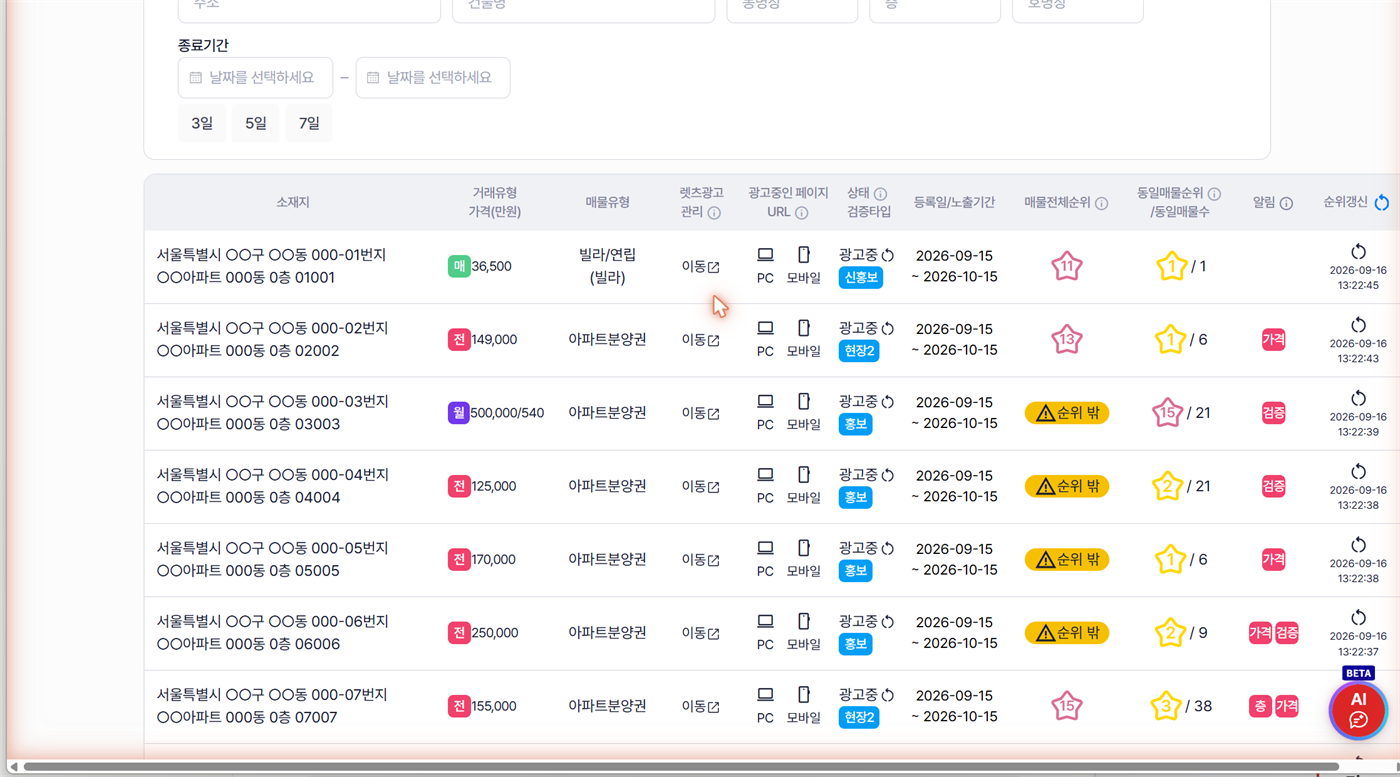
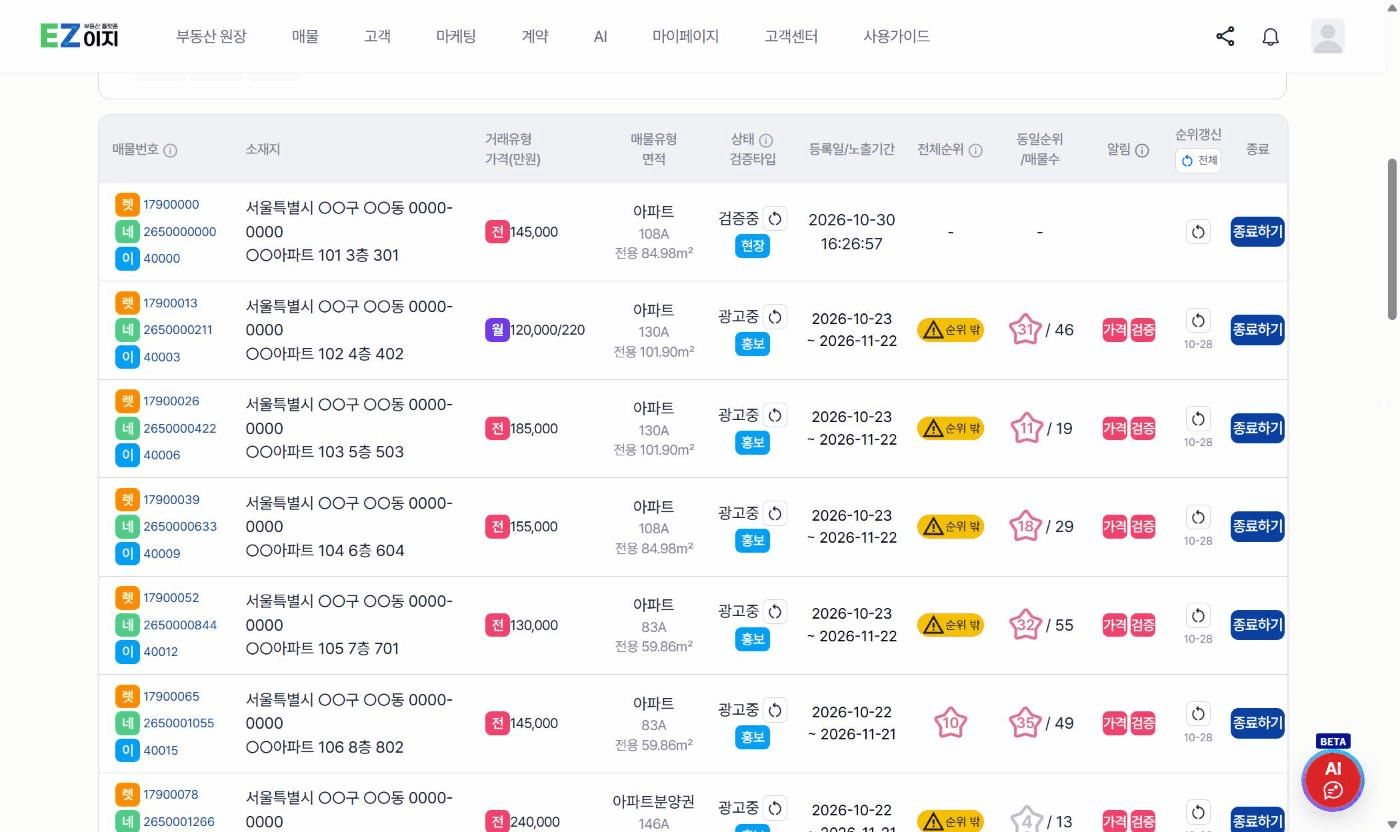
광고 관리 두 화면의 달라진 목록을 반영했습니다
광고 메뉴가 보이는 계정으로 직접 확인했습니다.

- N 광고 관리: 매물번호 세 가지(렛츠·네이버·이지)가 한 칸에 나오고
  그 번호로 검색할 수 있게 된 것, 열이 합쳐져 가로 스크롤이 준 것
- 이지 광고 관리: 매물번호 두 가지(허브·이지)와 면적 표시
- 두 화면 모두 스크린샷을 새로 찍었습니다. 소재지·동호수·매물번호를
  전부 가렸고, 가격은 예시값으로 바꿔 넣었습니다

diff --git a/docs/howto/naver-ad.md b/docs/howto/naver-ad.md
@@ -402,13 +402,31 @@
 `매물 → N 광고 관리`를 열면 **광고 중인 매물이 표로 한눈에** 나옵니다.
 매물을 하나씩 눌러볼 필요가 없습니다.
 
-![N 광고 관리 순위표](/images/naver-ad-06.png)
+![N 광고 관리 목록](/images/naver-ad-06.png)
 
 맨 위에 상태별 건수가 나옵니다 — **전체 / 대기중 / 검증중 / 광고중 / 검증실패 / 종료**.
 
 ::: tip 광고 페이지 바로가기가 하나로 합쳐졌습니다
 전에는 **PC · 모바일** 두 개였습니다. **2026.10부터 「바로가기」 하나**입니다.
 예전 주소를 눌러도 지금 네이버 화면으로 알아서 넘어갑니다.
+:::
+
+::: tip 매물번호 세 가지가 한 칸에 나옵니다 *(2026.10 추가)*
+맨 왼쪽 **매물번호** 칸에 번호가 세 줄로 붙습니다.
+
+| 배지 | 어느 번호인가 |
+| --- | --- |
+| **렛** | 렛츠 매물번호 |
+| **네** | 네이버 매물번호 |
+| **이** | 부동산이지 매물번호 |
+
+위쪽 검색줄의 **매물번호** 칸에서 어느 번호로 찾을지 고를 수 있습니다.
+렛츠나 네이버에서 매물번호로 문의가 올 때 **그 번호 그대로 찾으면 됩니다.**
+:::
+
+::: tip 열이 합쳐져 가로 스크롤이 줄었습니다 *(2026.10 변경)*
+거래유형과 가격, 매물유형과 면적, 상태와 검증타입이 **각각 한 칸으로** 합쳐졌습니다.
+면적은 **평타입과 전용면적**이 함께 나오고 소수 둘째 자리까지 표시됩니다.
 :::
 
 | 열 | 무엇인가 |

diff --git a/docs/howto/ez-hub.md b/docs/howto/ez-hub.md
@@ -76,6 +76,15 @@
 `매물 → 이지 광고 관리`에 이지허브로 보낸 매물이 모입니다.
 그 줄의 **바로가기**를 누르면 **손님에게 보이는 화면 그대로** 열립니다.
 
+![이지 광고 관리 목록](/images/ez-hub-05.png)
+
+::: tip 매물번호 두 가지가 함께 나옵니다 *(2026.10 추가)*
+맨 왼쪽 **매물번호** 칸에 **허**(이지허브 매물번호)와 **이**(부동산이지 매물번호)가 함께 붙습니다.
+위쪽 검색줄의 **매물번호**에서 어느 번호로 찾을지 고를 수 있습니다.
+
+면적 칸에는 **평타입과 전용면적**이 함께 나옵니다.
+:::
+
 올린 매물 화면에는 이런 것들이 함께 나옵니다.
 
 | 무엇 | 설명 |
